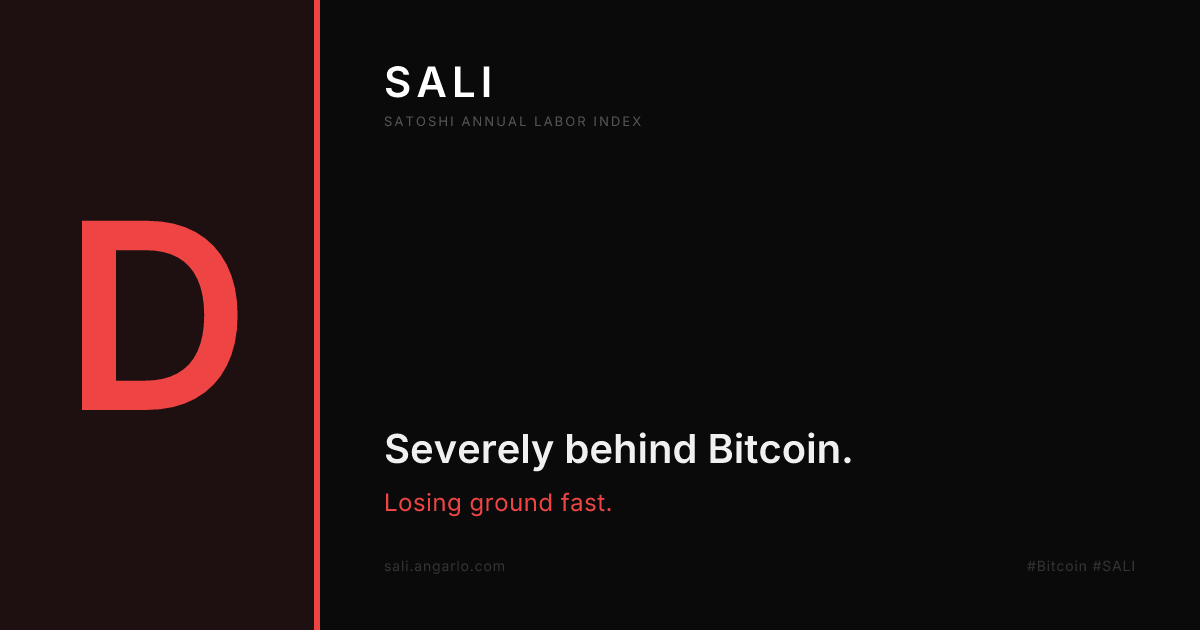
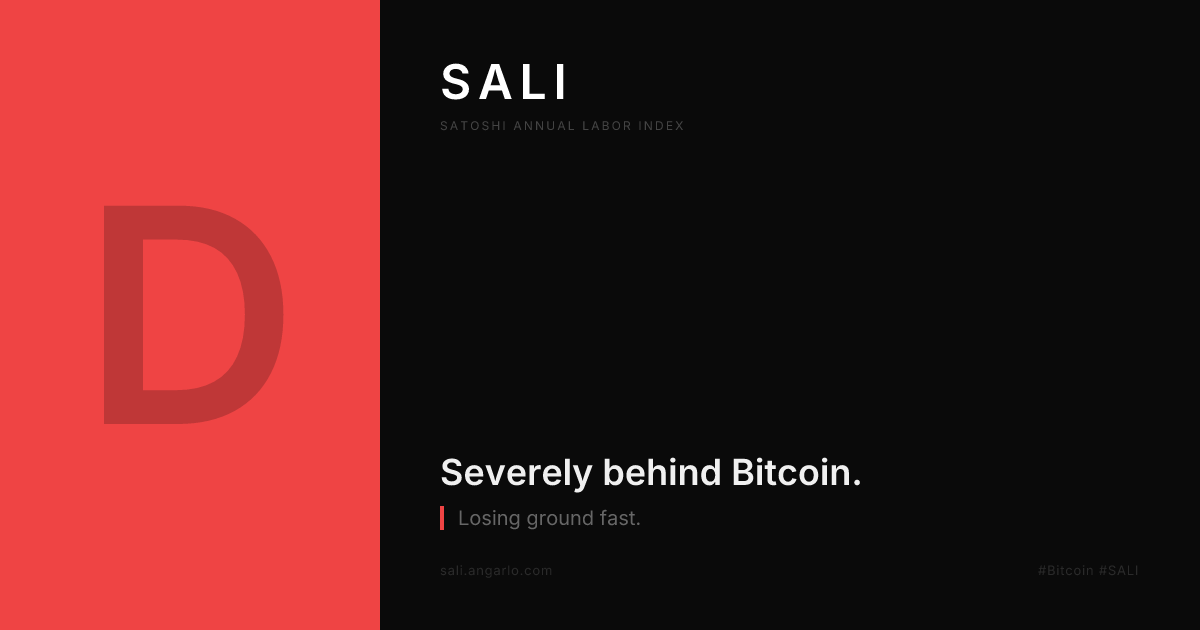
redesign: bold solid-color OG cards + tighter tweet copy
Cards: left panel now solid grade color with ghost letter, high contrast
split against dark right panel. borderLeft accent on sub-label. Much
stronger visual than the previous tinted version.

Copy: drop 'SALI -' prefix and 'Calculate yours:' fluff. New format:
'🟠 [hook]\n\nWhat's yours? → #Bitcoin #SALI' — tighter and more
direct. Updated EN and ES strings.

diff --git a/assets/js/app.js b/assets/js/app.js
@@ -97,12 +97,12 @@
         `SALI changed <strong style="color:${tc}">${tot}</strong> since ${yr}: ` +
         `salary <strong style="color:${sc}">${sal}</strong> (positive) · ` +
         `BTC <strong style="color:${bc}">${btc}</strong> impact`,
-      shareSameStrc: (pct, boost, grade) => `With ${pct}% in $STRC (+${boost}%/yr yield), my salary is keeping pace with Bitcoin. Grade: ${grade}.`,
-      shareGapStrc: (pct, boost, grade, rate) => `${pct}% in $STRC adds ${boost}%/yr dividend income - closing the Bitcoin gap. Grade: ${grade} (${rate}).`,
-      shareSame: (rate, grade) => `My salary is keeping pace with Bitcoin (${rate}). Grade: ${grade} - extremely rare.`,
-      shareLosing: (rate, gap, grade) => `My salary loses ${rate} to Bitcoin every year. A +${gap}%/yr raise would just break even. Grade: ${grade}.`,
+      shareSameStrc: (pct, boost, grade) => `${pct}% in $STRC (+${boost}%/yr yield) keeps my salary even with Bitcoin. Grade: ${grade}.`,
+      shareGapStrc: (pct, boost, grade, rate) => `My salary loses ${rate} to Bitcoin. $STRC adds ${boost}%/yr — closing the gap. Grade: ${grade}.`,
+      shareSame: (rate, grade) => `My salary is keeping pace with Bitcoin (${rate}). Grade: ${grade} — extremely rare.`,
+      shareLosing: (rate, gap, grade) => `My salary loses ${rate} to Bitcoin every year. I need +${gap}%/yr just to break even. Grade: ${grade}.`,
       shareBreakEven: (rate, grade) => `My salary is right at Bitcoin break-even (${rate}). Grade: ${grade}.`,
-      shareFallback: '🟠 How much is your salary worth in Bitcoin? Calculate your SALI Grade → #Bitcoin #SALI',
+      shareFallback: '🟠 Is your salary keeping up with Bitcoin? Find out your SALI Grade → #Bitcoin #SALI',
       shareReddit: g => `My SALI Grade: ${g} — How much is your salary worth in Bitcoin?`,
       shareRedditFallback: 'How much is your salary worth in Bitcoin? — SALI Calculator',
       shareCopied: '✓ Copied!',
@@ -212,12 +212,12 @@
         `SALI cambió <strong style="color:${tc}">${tot}</strong> desde ${yr}: ` +
         `salario <strong style="color:${sc}">${sal}</strong> (positivo) · ` +
         `BTC <strong style="color:${bc}">${btc}</strong> impacto`,
-      shareSameStrc: (pct, boost, grade) => `Con ${pct}% en $STRC (+${boost}%/año de rendimiento), mi salario mantiene el ritmo con Bitcoin. Calificación: ${grade}.`,
-      shareGapStrc: (pct, boost, grade, rate) => `${pct}% en $STRC agrega ${boost}%/año de dividendos — cerrando la brecha con Bitcoin. Calificación: ${grade} (${rate}).`,
+      shareSameStrc: (pct, boost, grade) => `${pct}% en $STRC (+${boost}%/año) mantiene mi salario al ritmo de Bitcoin. Calificación: ${grade}.`,
+      shareGapStrc: (pct, boost, grade, rate) => `Mi salario pierde ${rate} ante Bitcoin. $STRC agrega ${boost}%/año — cerrando la brecha. Calificación: ${grade}.`,
       shareSame: (rate, grade) => `Mi salario mantiene el ritmo con Bitcoin (${rate}). Calificación: ${grade} — extremadamente raro.`,
-      shareLosing: (rate, gap, grade) => `Mi salario pierde ${rate} ante Bitcoin cada año. Un aumento de +${gap}%/año sería el punto de equilibrio. Calificación: ${grade}.`,
+      shareLosing: (rate, gap, grade) => `Mi salario pierde ${rate} ante Bitcoin cada año. Necesito +${gap}%/año solo para empatar. Calificación: ${grade}.`,
       shareBreakEven: (rate, grade) => `Mi salario está en el punto de equilibrio con Bitcoin (${rate}). Calificación: ${grade}.`,
-      shareFallback: '🟠 ¿Cuánto vale tu salario en Bitcoin? Calcula tu Calificación SALI → #Bitcoin #SALI',
+      shareFallback: '🟠 ¿Tu salario le sigue el ritmo a Bitcoin? Descubre tu Calificación SALI → #Bitcoin #SALI',
       shareReddit: g => `Mi Calificación SALI: ${g} — ¿Cuánto vale tu salario en Bitcoin?`,
       shareRedditFallback: '¿Cuánto vale tu salario en Bitcoin? — Calculadora SALI',
       shareCopied: '✓ ¡Copiado!',
@@ -741,7 +741,7 @@
       }
 
       const tags = strcEnabled && strcPct > 0 ? '#Bitcoin #SALI #STRC' : '#Bitcoin #SALI';
-      shortText = `🟠 SALI - ${hook}\n\nCalculate yours: ${tags}`;
+      shortText = `🟠 ${hook}\n\nWhat's yours? → ${tags}`;
     } else {
       shortText = S.shareFallback;
     }
